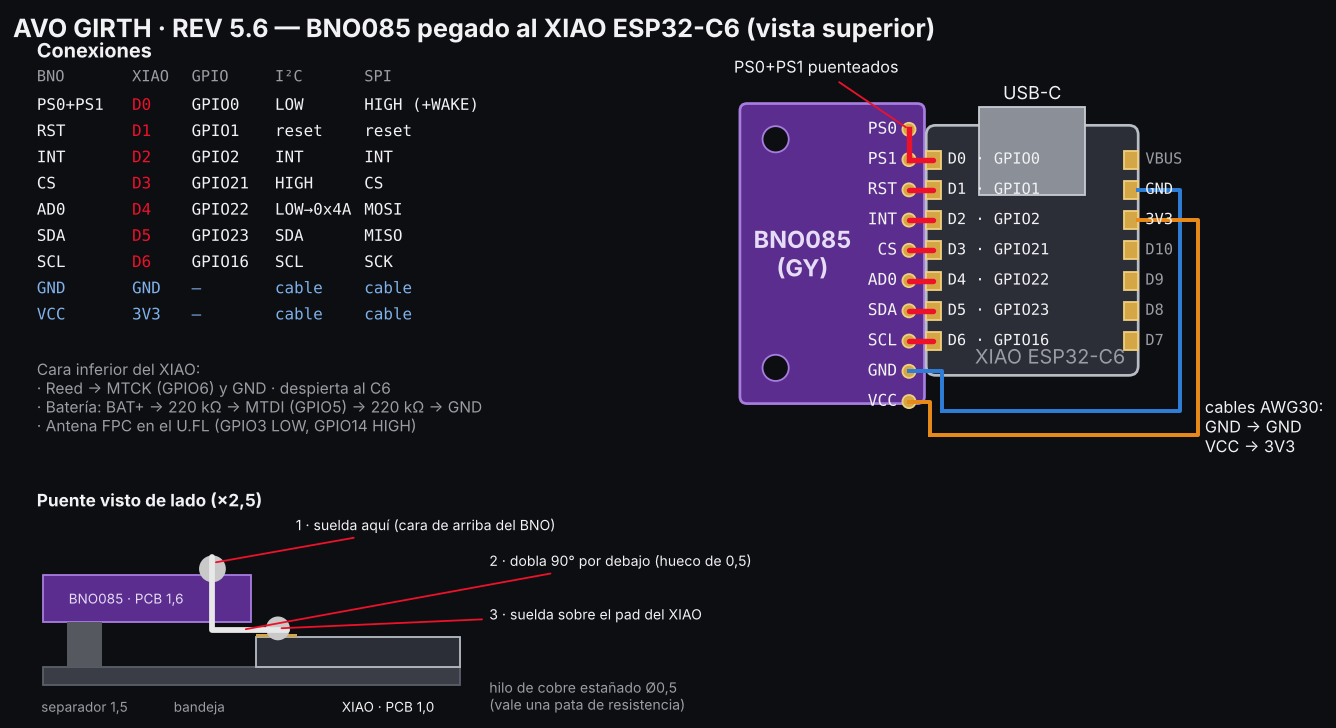
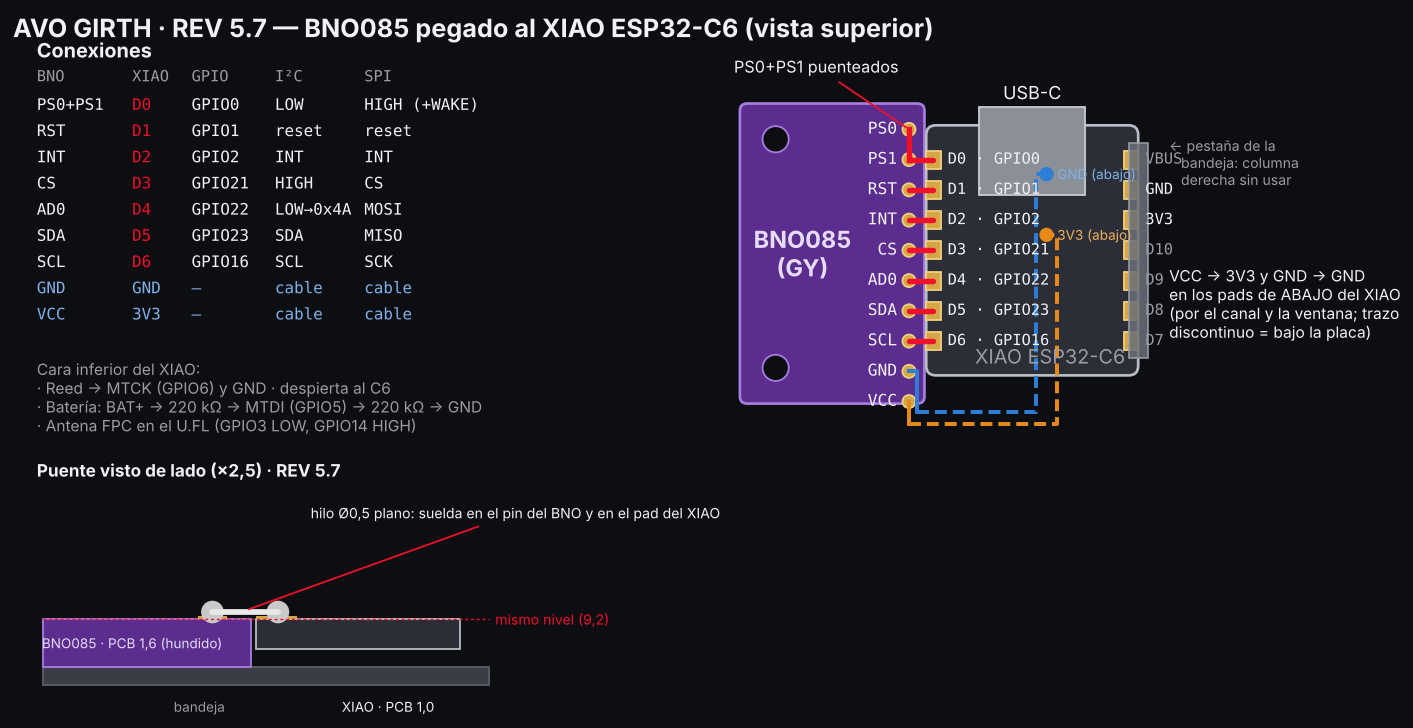
Cincha REV5.7: documentación, renders y esquema de conexiones actualizado
Claude-Session: https://claude.ai/code/session_01CFKdRMvEszajTemWxtmJHV

diff --git a/hardware/girth/REV5/README.md b/hardware/girth/REV5/README.md
@@ -1,6 +1,35 @@
 # AVO GIRTH REV 5: cápsula estanca de 70 × 48 mm, 8 tornillos M3 y 4 + 4 imanes
 
-**REV 5.6 (actual): BNO085 pegado al ESP32-C6, pin con pad.**
+**REV 5.7 (actual): cama de la electrónica.**
+- **Cama maciza:** la bandeja se rellena hasta la cara superior de los PCB (z 9,2) y queda dentro del labio de la tapa. El C6 y la Qi van en alojamientos a ras de la cama.
+- **BNO085 hundido:**
+  - su cara superior queda al mismo nivel que la del C6, y los 7 puentes se sueldan planos por arriba;
+  - apoya en un reborde de 1 mm, con ventana debajo para las soldaduras;
+  - ya no lleva tornillos M2.
+- **Sujeción:**
+  - **C6:** pestaña superior continua en el lado +X (0,6 sobre el PCB). Su columna derecha de pads queda debajo, sin usar.
+  - **BNO:** pestaña en el lado −X (pared de 0,8 + 0,45 sobre el PCB), paredes en los extremos y dos tubos de la tapa (Ø4,2/2,6) que lo aprietan sobre el anillo de sus taladros.
+  - **Orden de montaje:**
+    1. el C6;
+    2. el BNO;
+    3. los puentes.
+- **Canales de cables** (2,4 × 1,2 mm, con 0,8 de suelo sobre la batería):
+  - superior: batería → Qi;
+  - entre la Qi y el BNO: 2,2 mm, con topes de la Qi de 0,6;
+  - inferior: batería, reed y VCC/GND del BNO.
+  - Todo baja bajo el C6 por la ventana, hasta los pads de abajo: BAT+/−, MTCK, MTDI, 3V3 y GND.
+- **Batería:** girada 180° en su cuna. Sus cables salen por −X/+Y y suben por el paso nuevo, en (−26; 13,2). Se quita el paso antiguo de (26; −13,9).
+- **Hilos de la bobina:** la ranura queda abierta hasta el borde de la bandeja, para meterlos de lado sin desoldar la bobina.
+- **Otros cambios:**
+  - la Qi se desplaza 1 mm hacia −X;
+  - el poste de la tapa de (−3; −16,5) pasa a (−3; −18,9);
+  - los postes de la tapa apoyan en la cama.
+- **Voladizos:** solo las caras inferiores de las dos pestañas (0,45–0,6 mm de vuelo); se imprimen sin soportes.
+- **CI:** 1 sólido por pieza, interferencias: ninguna.
+- Renders: `renders/cama.png`, `renders/cama_cables.png`, `renders/corte_pines.png` y `renders/cableado_bno_c6.png`.
+- **(E) Pendiente de calibre:** el largo del BNO (25,2) y la posición de su fila de pines. Va encajado entre dos pestañas.
+
+**REV 5.6: BNO085 pegado al ESP32-C6, pin con pad.**
 - Posiciones tomadas de la huella oficial de Seeed (repositorio OSHW-XIAO-Series):
   - pads de la XIAO ESP32-C6 con paso de 2,54 mm, centrados;
   - D0 en el extremo del USB;
@@ -21,10 +50,9 @@
 - **Por qué los 7 y no solo SDA/SCL:**
   - según SparkFun, el BNO08x no funciona de forma fiable sin INT y RST;
   - según Adafruit, su I²C da problemas con ESP32/ESP32-S3, y con los 7 puentes se puede pasar a SPI sin volver a soldar.
-- **Cómo soldarlo:**
-  1. Mete el hilo por el agujero desde arriba y suéldalo en la cara de arriba del BNO.
-  2. Dóblalo 90° por debajo, por el hueco de 0,5 mm.
-  3. Suéldalo sobre el pad del XIAO.
+- **Cómo soldarlo (REV 5.7):**
+  1. Pon un hilo plano por arriba, del pin del BNO al pad del XIAO (las dos caras están al mismo nivel).
+  2. Suéldalo en los dos extremos.
   4. Comprueba con el polímetro que no hay continuidad entre puentes vecinos ni entre VCC y GND.
 - **Cara inferior del XIAO:**
   - reed a MTCK (GPIO6) y a GND, para que despierte al C6;

diff --git a/docs/REGISTRO_DE_CAMBIOS.md b/docs/REGISTRO_DE_CAMBIOS.md
@@ -716,6 +716,36 @@ Petición del usuario.
 - El espesor de la bobina es estimado (1,0 mm): pendiente de calibre.
 - CI sin interferencias.
 
+## 2026-10-27 — Cincha REV 5.7 (cama de la electrónica)
+- **Petición del usuario:**
+  - ajustar la cama a la unión BNO–C6;
+  - pasar el paso de los cables de la batería al lado opuesto;
+  - engrosar la cama y crear canales para los cables;
+  - pines del C6 y del BNO al mismo nivel por arriba;
+  - pestaña superior en el C6 y sujeción del BNO;
+  - ranura abierta para los hilos de la bobina.
+- **Cómo se hizo:** la propuesta se desarrolló en la rama `feature/girth-rev5-7-cama`, con imágenes previas. El usuario la aprobó («Perfecto») y se fusionó a mano en `feature/avo-wifi-sync`.
+- **Bandeja:**
+  - cama maciza a ras de los PCB;
+  - BNO hundido (BNO_Z0 = 7,6) a ras del C6, con una ventana debajo;
+  - pestañas superiores en el C6 (+X) y en el BNO (−X);
+  - canales de 2,4 × 1,2;
+  - paso de la batería en −X/+Y;
+  - ranura de la bobina abierta hasta el borde;
+  - Qi desplazada 1 mm hacia −X.
+- **Base:** el hueco de la cuna para los cables de la batería pasa a −X/+Y (la batería se gira 180°).
+- **Tapa:**
+  - 2 tubos que aprietan el BNO;
+  - postes apoyados en la cama;
+  - un poste movido a (−3; −18,9).
+- **Esquema de conexiones actualizado:**
+  - puentes planos por arriba;
+  - VCC/GND del BNO a los pads 3V3/GND de la cara inferior del XIAO (la columna derecha queda bajo la pestaña).
+- **Comprobaciones:**
+  - CI: 1 sólido por pieza y ninguna interferencia;
+  - voladizos: solo las caras inferiores de las pestañas (0,45–0,6 mm).
+- **Pendiente:** confirmar con calibre el largo del BNO y la posición de su fila de pines. No se ha probado en físico.
+
 ## 2026-10-27 — Cincha REV 5.6 (BNO085 pegado al ESP32-C6)
 - **Petición del usuario:** colocar el ESP32 y el IMU con los puntos de soldadura pegados y las conexiones coincidentes.
 - **Bandeja:** la posición del BNO085 se calcula a partir del C6 según la huella oficial de Seeed (paso 2,54, D0 en el extremo del USB, USB-C sobresale 1,5). Los 7 pines PS1…SCL quedan a la misma Y que D0…D6, con un hueco de 0,15 mm.
